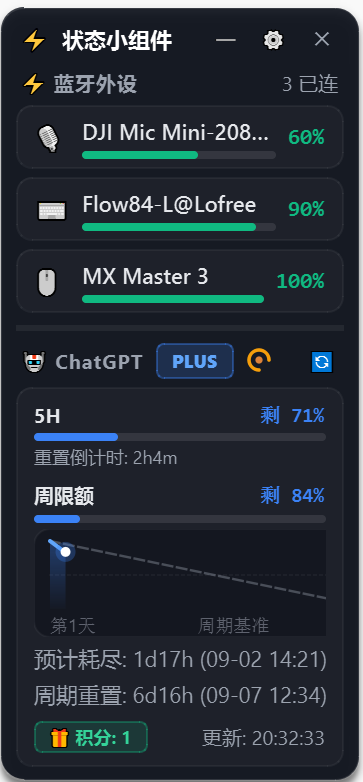
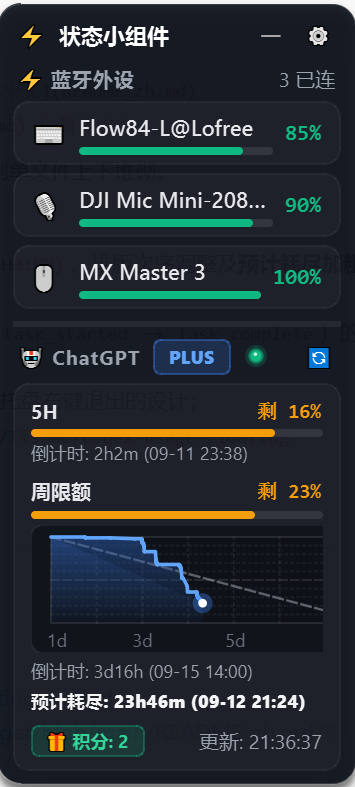
docs: update README screenshot assets with latest UI views and adjust image sizing

diff --git a/README.md b/README.md
@@ -13,14 +13,14 @@ English | [简体中文](README_zh.md)
 <br/>
 
 <p align="center">
-  <img src="assets/capsule-view.png" alt="Mini Capsule Mode" style="max-height: 40px; border-radius: 6px; box-shadow: 0 4px 12px rgba(0,0,0,0.4);" />
+  <img src="assets/capsule-view.png" alt="Mini Capsule Mode" width="260" />
 </p>
 <p align="center">
   <em>Mini Capsule Mode (Click anywhere to expand seamlessly)</em>
 </p>
 
 <p align="center">
-  <img src="assets/expanded-view.png" alt="Expanded Detailed Card" width="280" style="border-radius: 12px; box-shadow: 0 8px 24px rgba(0,0,0,0.5);" />
+  <img src="assets/expanded-view.png" alt="Expanded Detailed Card" width="280" />
 </p>
 <p align="center">
   <em>Expanded Card Mode with 7-Day Sparkline, Rate-Limit Burn Benchmarks & Real-Time Peripheral Battery</em>
@@ -54,7 +54,7 @@ When pairing wireless microphones like the **DJI Mic Mini** or **DJI Mic** for *
 - **Zero-Config Token Sync**:
   - Reads `%USERPROFILE%\.codex\auth.json` directly. Stays synchronized with your Codex CLI / ChatGPT Desktop session without manually inputting API tokens;
 - **Dual-Quota Capsule Mode**:
-  - Compact dot-separated format: `[ 🎙 50% | 🤖 100% · 84% 🟢 ]`;
+  - Compact dot-separated format: `[ 🎙 90% | 🤖 16% · 23% 🟢 ]`;
   - Left number is 5-hour rolling limit remaining; right number is weekly quota remaining;
   - Both numbers dynamically and independently shift color based on consumption health (🟢 >50% healthy, 🟠 20%~50% caution, 🔴 <20% critical);
 - **7-Day Sparkline Grid & Ideal Burn Baseline**:

diff --git a/README_zh.md b/README_zh.md
@@ -13,14 +13,14 @@
 <br/>
 
 <p align="center">
-  <img src="assets/capsule-view.png" alt="Mini Capsule Mode" style="max-height: 40px; border-radius: 6px; box-shadow: 0 4px 12px rgba(0,0,0,0.4);" />
+  <img src="assets/capsule-view.png" alt="Mini Capsule Mode" width="260" />
 </p>
 <p align="center">
   <em>迷你胶囊模式（点击任意区域秒级展开）</em>
 </p>
 
 <p align="center">
-  <img src="assets/expanded-view.png" alt="Expanded Detailed Card" width="280" style="border-radius: 12px; box-shadow: 0 8px 24px rgba(0,0,0,0.5);" />
+  <img src="assets/expanded-view.png" alt="Expanded Detailed Card" width="280" />
 </p>
 <p align="center">
   <em>展开卡片视图：外设电量列表 + 7天限额消耗基准曲线 + 倒计时与耗尽预警</em>
@@ -53,7 +53,7 @@
 - **零配置凭据同步**：
   - 自动读取本地 `%USERPROFILE%\.codex\auth.json` 鉴权凭证，与 Codex CLI / ChatGPT 桌面端无缝联动，免除手动输入 Token；
 - **纯净双显胶囊（Dual-Quota Capsule）**：
-  - 胶囊模式以最精炼的点分数字格式呈现：`[ 🎙 50% | 🤖 100% · 84% 🟢 ]`；
+  - 胶囊模式以最精炼的点分数字格式呈现：`[ 🎙 90% | 🤖 16% · 23% 🟢 ]`；
   - 左侧为 5 小时滚动限额剩余，右侧为周限额剩余，两个数字**独立根据健康度动态变色**（🟢 充足 / 🟠 适中 / 🔴 预警）；
 - **7天消耗速率坐标折线图（Sparkline Grid）与耗尽预测**：
   - 规范的坐标边框与 X 轴 7 等分天数网格（`1d` / `3d` / `5d` / `7d`）；
